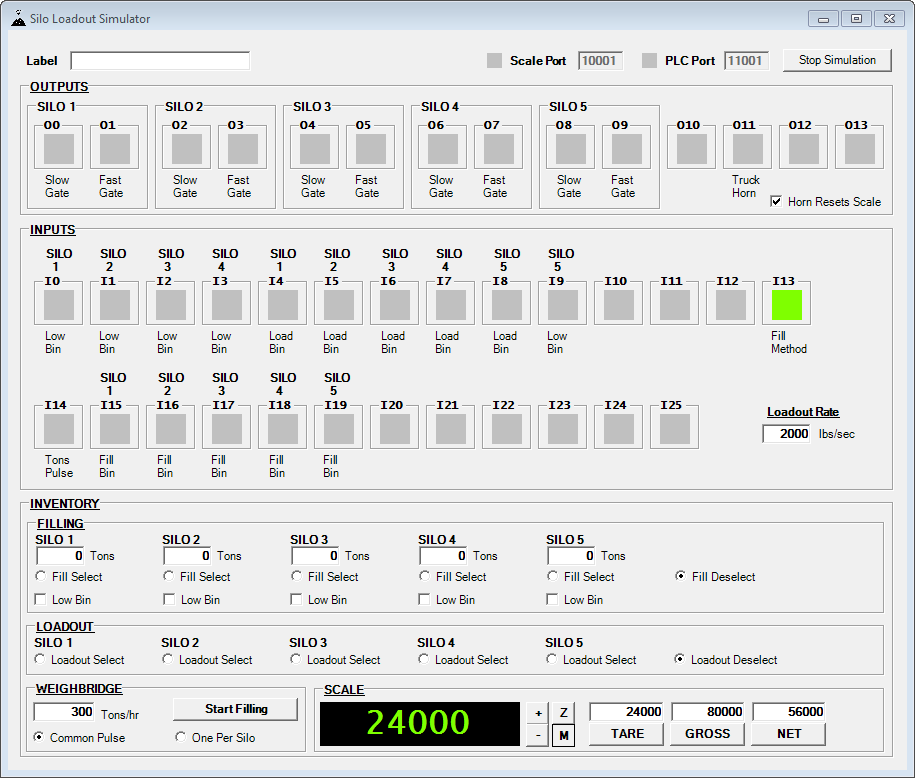
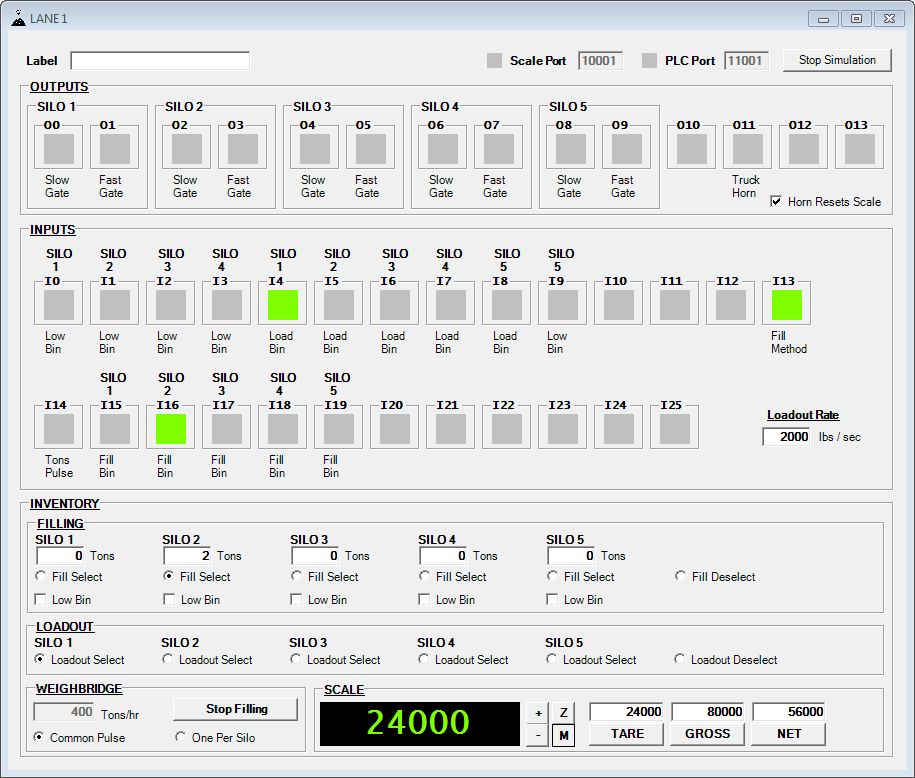
Change loadout logic to limit loadout rate.

diff --git a/SiloSim/SiloSimForm.Designer.cs b/SiloSim/SiloSimForm.Designer.cs
@@ -177,6 +177,7 @@
             this.scaleGrossBtn = new System.Windows.Forms.Button();
             this.scaleTareBtn = new System.Windows.Forms.Button();
             this.scalePanel = new System.Windows.Forms.Panel();
+            this.scaleText = new SiloSim.DisabledRichTextBox();
             this.loadoutBox = new System.Windows.Forms.GroupBox();
             this.label39 = new System.Windows.Forms.Label();
             this.label41 = new System.Windows.Forms.Label();
@@ -232,7 +233,6 @@
             this.scaleClientLight = new System.Windows.Forms.Panel();
             this.plcClientLight = new System.Windows.Forms.Panel();
             this.clientsList = new System.Windows.Forms.ToolTip(this.components);
-            this.scaleText = new SiloSim.DisabledRichTextBox();
             this.outputsBox.SuspendLayout();
             this.output13.SuspendLayout();
             this.output12.SuspendLayout();
@@ -902,9 +902,9 @@
             this.label63.Font = new System.Drawing.Font("Microsoft Sans Serif", 8.25F, System.Drawing.FontStyle.Regular, System.Drawing.GraphicsUnit.Point, ((byte)(0)));
             this.label63.Location = new System.Drawing.Point(797, 207);
             this.label63.Name = "label63";
-            this.label63.Size = new System.Drawing.Size(20, 13);
+            this.label63.Size = new System.Drawing.Size(48, 13);
             this.label63.TabIndex = 28;
-            this.label63.Text = "lbs";
+            this.label63.Text = "lbs / sec";
             // 
             // label64
             // 
@@ -912,9 +912,9 @@
             this.label64.Font = new System.Drawing.Font("Microsoft Sans Serif", 8.25F, ((System.Drawing.FontStyle)((System.Drawing.FontStyle.Bold | System.Drawing.FontStyle.Underline))), System.Drawing.GraphicsUnit.Point, ((byte)(0)));
             this.label64.Location = new System.Drawing.Point(745, 185);
             this.label64.Name = "label64";
-            this.label64.Size = new System.Drawing.Size(83, 13);
+            this.label64.Size = new System.Drawing.Size(84, 13);
             this.label64.TabIndex = 30;
-            this.label64.Text = "In Air Amount";
+            this.label64.Text = "Loadout Rate";
             // 
             // inAirBox
             // 
@@ -1963,6 +1963,19 @@
             this.scalePanel.Size = new System.Drawing.Size(200, 44);
             this.scalePanel.TabIndex = 1;
             // 
+            // scaleText
+            // 
+            this.scaleText.BackColor = System.Drawing.Color.Black;
+            this.scaleText.BorderStyle = System.Windows.Forms.BorderStyle.None;
+            this.scaleText.Font = new System.Drawing.Font("Lucida Console", 25F, System.Drawing.FontStyle.Bold, System.Drawing.GraphicsUnit.Point, ((byte)(0)));
+            this.scaleText.ForeColor = System.Drawing.Color.Chartreuse;
+            this.scaleText.Location = new System.Drawing.Point(2, 6);
+            this.scaleText.Name = "scaleText";
+            this.scaleText.Size = new System.Drawing.Size(195, 35);
+            this.scaleText.TabIndex = 0;
+            this.scaleText.TabStop = false;
+            this.scaleText.Text = "   24000";
+            // 
             // loadoutBox
             // 
             this.loadoutBox.Controls.Add(this.label39);
@@ -2590,19 +2603,6 @@
             this.plcClientLight.Size = new System.Drawing.Size(15, 15);
             this.plcClientLight.TabIndex = 10;
             this.plcClientLight.MouseEnter += new System.EventHandler(this.plcClientLight_MouseEnter);
-            // 
-            // scaleText
-            // 
-            this.scaleText.BackColor = System.Drawing.Color.Black;
-            this.scaleText.BorderStyle = System.Windows.Forms.BorderStyle.None;
-            this.scaleText.Font = new System.Drawing.Font("Lucida Console", 25F, System.Drawing.FontStyle.Bold, System.Drawing.GraphicsUnit.Point, ((byte)(0)));
-            this.scaleText.ForeColor = System.Drawing.Color.Chartreuse;
-            this.scaleText.Location = new System.Drawing.Point(2, 6);
-            this.scaleText.Name = "scaleText";
-            this.scaleText.Size = new System.Drawing.Size(195, 35);
-            this.scaleText.TabIndex = 0;
-            this.scaleText.TabStop = false;
-            this.scaleText.Text = "   24000";
             // 
             // SiloSimForm
             // 

diff --git a/SiloSim/SiloSim.cs b/SiloSim/SiloSim.cs
@@ -20,7 +20,7 @@ namespace SiloSim
         public static int weighBridgeStartupFillRate = 300;
         public static int inAirWeight = 2000;
         public static float materialInAir = 0F;
-        public static int loadoutRate = 5000;
+        public static float loadoutRate = 5000;
         public static float materialVelocity = 0.1F;
         public static float frictionFactor = 0.5F;
         public static float distanceToTruck = 8F;
@@ -156,7 +156,7 @@ namespace SiloSim
             {
                 if (gatePercentOpen < 100)
                 {
-                    gatePercentOpen += 4;
+                    gatePercentOpen += 1;
                 }
                 else
                 {
@@ -167,7 +167,7 @@ namespace SiloSim
             {
                 if (gatePercentOpen > 0)
                 {
-                    gatePercentOpen -= 4;
+                    gatePercentOpen -= 2;
                 }
                 else
                 {
@@ -175,19 +175,22 @@ namespace SiloSim
                 }
             }
 
-            if(materialInAir > inAirWeight)
+            if (materialInAirQueue.Count > 0)
             {
-                materialInAir = inAirWeight;
+                materialInAir = materialInAirQueue.ToList().Sum();
             }
 
 
             if (materialStreamHeight > 0)
             {
-                if (materialInAir < inAirWeight)
+                if (gatePercentOpen > 0 || materialInAir > 0)
                 {
-                    materialVelocity += gravity / 100;
+                    if (materialInAir <= inAirWeight)
+                    {
+                        materialVelocity += gravity / 100;
+                    }
+                    materialStreamHeight -= materialVelocity / 100;
                 }
-                materialStreamHeight -= materialVelocity / 100;
             }
             else
             {
@@ -196,27 +199,39 @@ namespace SiloSim
 
             if (gatePercentOpen > 0)
             {
-                var material = gatePercentOpen / 100 * materialVelocity * siloOpeningArea * materialDensity / 100;
+                loadoutRate = gatePercentOpen / 100 * materialVelocity * siloOpeningArea * materialDensity;
+                if(loadoutRate > inAirWeight)
+                {
+                    loadoutRate = inAirWeight;
+                }
+                var material = loadoutRate / 100;
                 materialInAirQueue.Enqueue(material);
-                materialInAir += gatePercentOpen / 100 * materialVelocity * siloOpeningArea * materialDensity / 100;
             }
 
+            float materialLandedInTruck = 0;
             if (materialStreamHeight <= 0 && materialInAir > 0)
             {
-                var materialLandedInTruck = materialInAirQueue.Dequeue();
-                materialInAir -= materialLandedInTruck;
-                Scale.scaleWeight += (int)Math.Round(materialLandedInTruck);
+                if (materialInAirQueue.Count > 0)
+                {
+                    materialLandedInTruck = materialInAirQueue.Dequeue();
+                    Scale.scaleWeight += (int)Math.Round(materialLandedInTruck);
+                }
+                else
+                {
+                    materialInAir = 0;
+                }
             }
 
             if(gatePercentOpen > 0 || materialInAir > 0)
             {
-                Debug.WriteLine("materialVelocity={0},materialInAir={1},materialStreamHeight={2},loadoutRate={3},gatePercentOpen={4}", materialVelocity, materialInAir, materialStreamHeight,materialVelocity*siloOpeningArea*materialDensity,gatePercentOpen);
+                Debug.WriteLine($"time={DateTime.Now.TimeOfDay},scaleWeight={Scale.scaleWeight},materialLandedInTruck ={materialLandedInTruck},materialVelocity={materialVelocity},materialInAir={materialInAir},materialStreamHeight={materialStreamHeight},loadoutRate={loadoutRate},gatePercentOpen={gatePercentOpen}");
             }
             else
             {
                 materialInAir = 0;
-                materialVelocity = 0.1F;
+                materialVelocity = 0.0F;
                 materialStreamHeight = distanceToTruck;
+                materialInAirQueue.Clear();
             }
 
             if (hornResetEnabled)

diff --git a/README.md b/README.md
@@ -39,7 +39,13 @@ This text box enables you to set the label in the title bar for the simulator
 ### B.	Stop/Start Simulation
 This button starts and stops the simulation server. In order to change the port that the PLC or Scale is listening on, you must stop the simulation first.
 
-### C.	Inventory Controls
+### C. Outputs
+Click any of the output lights to momentarily activate the output. Click and hold to keep the output active. When the silo gates are activated, the weight on the scale will begin increasing. There is a delay in between when the output is activated and when the weight is seen on the scale just like in a real plant. There is also a delay between when an output is deactivated and when the weight on the scale stops increasing. This delay is determined by the **In Air Amount**. Clicking on Output 11 for the Truck Horn will sound the horn, and if the **Horn Resets Scale** checkbox is checked, the scale will be reset to the tare weight.
+
+### D. Inputs
+Click the input lights to toggle the input on or off. Only inputs for filling or loadout can be toggled. The **Loadout Rate** text box is for configuring the maximum amount loadout rate in lbs / sec.
+
+### E.	Inventory Controls
 
 #### 1.	Filling Controls
 
@@ -47,7 +53,7 @@ This button starts and stops the simulation server. In order to change the port 
 Each silo has a text box that shows the current unsynced bin inventory. This number can be set manually by typing in a number and pressing enter.
 
 ##### b)	Fill Select
-These radio buttons allow you to choose which of the five silos to currently fill. You can only fill one at a time just like in a real plant. Click on Fill Deselect to deselect all silos for filling.
+These radio buttons allow you to choose which of the five silos to currently fill. You can only fill one at a time just like in a real plant. Click on **Fill Deselect** to deselect all silos for filling.
 
 ##### c)	Low Bin
 Each bin has a checkbox to indicate a low bin level. In a real plant this would come from a sensor, but in the simulator, this is a manual control.
@@ -55,7 +61,7 @@ Each bin has a checkbox to indicate a low bin level. In a real plant this would 
 #### 2.	Loadout Controls
 
 ##### a)	Loadout Select
-These radio buttons allow you to choose which silo is currently selected for loadout. Only one at a time can be selected for loadout. Click on Loadout Deselect to deselect all silos for loadout.
+These radio buttons allow you to choose which silo is currently selected for loadout. Only one at a time can be selected for loadout. Click on **Loadout Deselect** to deselect all silos for loadout.
 
 #### 3.	Weighbridge Controls
 
@@ -66,7 +72,7 @@ This text box allows you to enter the fill rate for filling the silos.
 Click this button to start or stop filling the silos. You should see the silo inventory increase as the weighbridge sends pulses to the silo that is selected for filling.
 
 ##### c)	Common Pulse/One Per Silo
-These radio buttons allow you to choose between two different filling methods. Input number 13 indicates which mode is currently selected. The Common Pulse method will set Input 13 to be always on, the One Per Silo method will set it to be always off. 
+These radio buttons allow you to choose between two different filling methods. Input number 13 indicates which mode is currently selected. The **Common Pulse** method will set Input 13 to be always on, the **One Per Silo** method will set it to be always off. 
 
 In Common Pulse mode, as the weighbridge fills the silos, the Tons Pulse will be visible on Input 14, and the silo is selected with Inputs 15,16,17,18,19.
 
@@ -84,7 +90,7 @@ This button will decrement the weight on the scale by 20 lbs.
 This button will set the scale weight to zero.
 
 ##### d)	Tare Weight
-This text box allows you to set the tare weight of an imaginary truck on the scale. To set the scale to the tare weight in the box, click the TARE button.
+This text box allows you to set the tare weight of an imaginary truck on the scale. To set the scale to the tare weight in the box, click the TARE button. If the **Horn Resets Scale** checkbox is checked, when Output 11 for the horn sounds, the scale will reset to the tare weight.
 
 ##### e)	Gross Weight
 This text box allows you to set the gross weight of an imaginary truck on the scale. To set the scale to the gross weight in the box, click the GROSS button.
